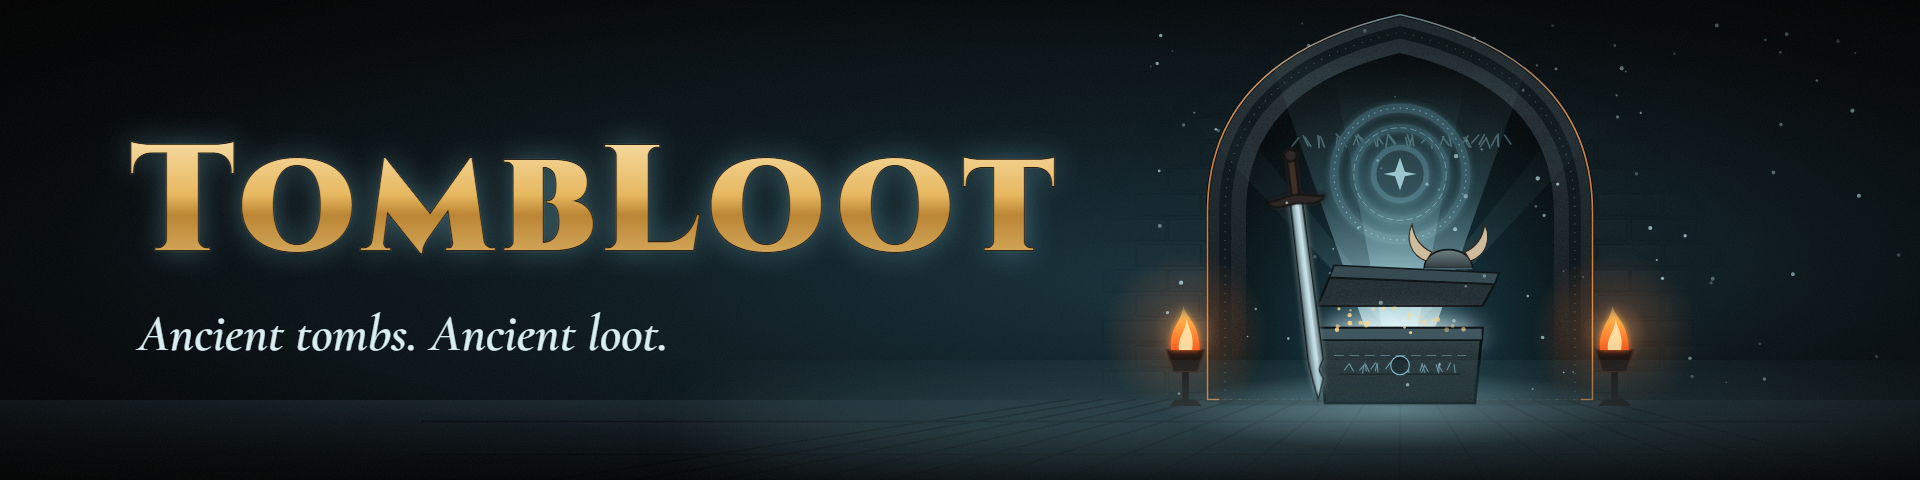
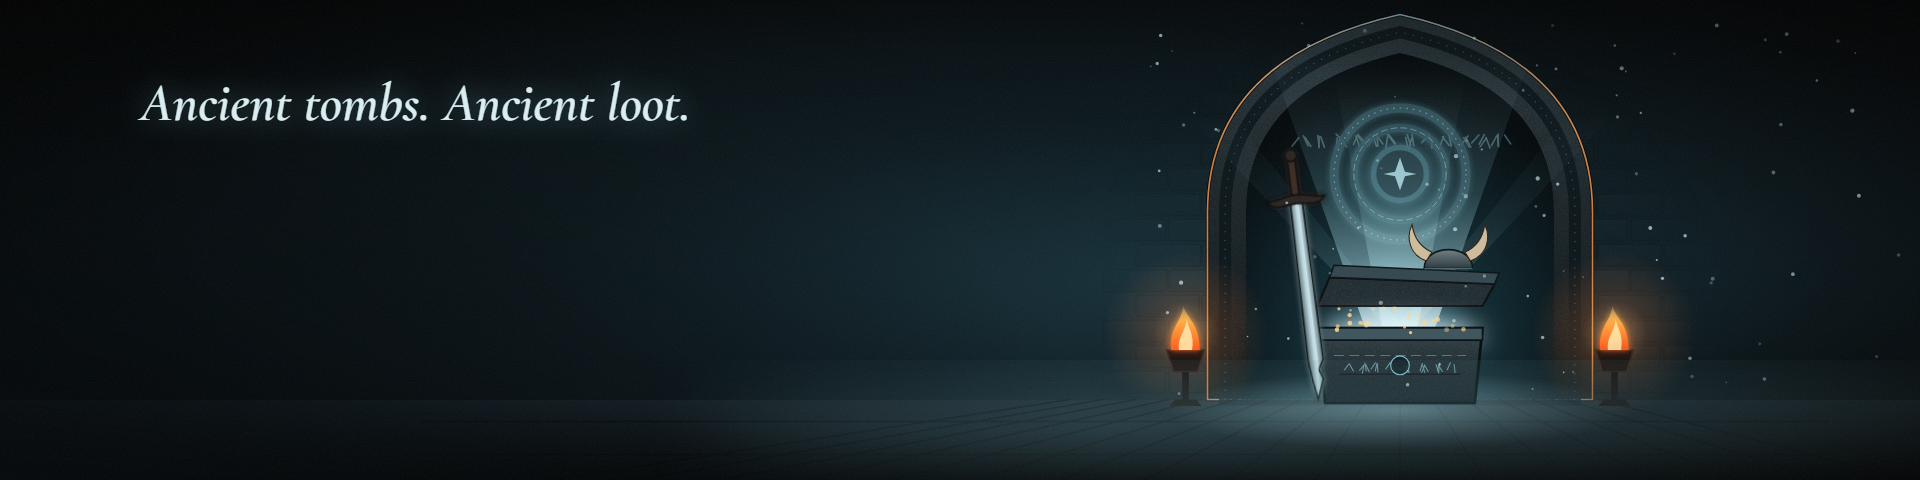
Bannière Nexus : coin bas gauche laissé libre pour le titre de Nexus
Nexus écrit le fil d'Ariane et le nom du mod sur le bas gauche de l'en-tête :
plus de titre dans l'image, slogan en haut à gauche, zone assombrie.

Changed region(s): [[0.0625, 0.2812, 0.5625, 0.5312], [0.0625, 0.6562, 0.3438, 0.75], [0.0625, 0.1875, 0.375, 0.25]]

diff --git a/art/art.html b/art/art.html
@@ -226,15 +226,19 @@ function render() {
       bx += w + 18;
     }
   } else {
-    // Banner: the barrow scaled down on the right, the title on the left.
+    // Banner (Nexus page header): Nexus writes the breadcrumb and the mod name over the
+    // lower left, so that area stays empty and darker; no title in the image, only a
+    // small tagline at the top left. The barrow sits on the right.
     s += `<rect x="0" y="400" width="${W}" height="${H - 400}" fill="url(#floor)"/>`;
     s += `<g transform="translate(751,-24) scale(.55)">${barrow()}</g>`;
     s += `<g filter="url(#mist)" opacity=".5"><ellipse cx="1400" cy="430" rx="700" ry="35" fill="#5c8a94"/></g>`;
     s += particles(90, 1150, 1900, 20, 400, .8, 2.2, '#cff6ff', .7);
     s += `<rect width="${W}" height="${H}" fill="url(#vignette)"/>`;
-    s += title(130, 250, 150, 'start');
-    s += `<line x1="138" y1="285" x2="690" y2="285" stroke="url(#gold)" stroke-width="2" opacity=".7"/>`;
-    s += `<text x="138" y="350" font-family="Cormorant Garamond" font-style="italic" font-weight="600" font-size="52" fill="#d9eef2">Ancient tombs. Ancient loot.</text>`;
+    s += `<defs><radialGradient id="nexusShade" gradientUnits="userSpaceOnUse" cx="0" cy="${H}" r="1100" gradientTransform="translate(0 ${H}) scale(1 .45) translate(0 -${H})">
+      <stop offset="0" stop-color="#03080b" stop-opacity=".8"/><stop offset=".55" stop-color="#03080b" stop-opacity=".4"/><stop offset="1" stop-color="#03080b" stop-opacity="0"/></radialGradient></defs>`;
+    s += `<rect width="${W}" height="${H}" fill="url(#nexusShade)"/>`;
+    s += `<text x="140" y="120" font-family="Cormorant Garamond" font-style="italic" font-weight="600" font-size="54" fill="#d9eef2" filter="url(#textGlow)">Ancient tombs. Ancient loot.</text>`;
+    s += `<line x1="142" y1="148" x2="640" y2="148" stroke="url(#gold)" stroke-width="2" opacity=".7"/>`;
   }
   s += `<rect width="${W}" height="${H}" filter="url(#grain)" opacity="1"/>`;
   s += `</svg>`;
